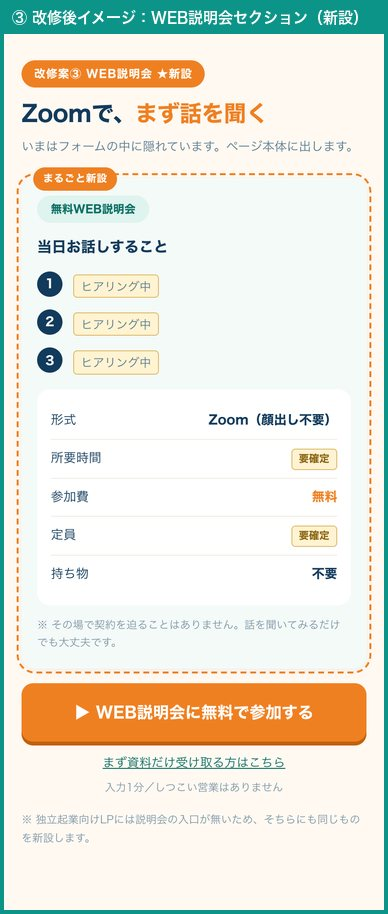
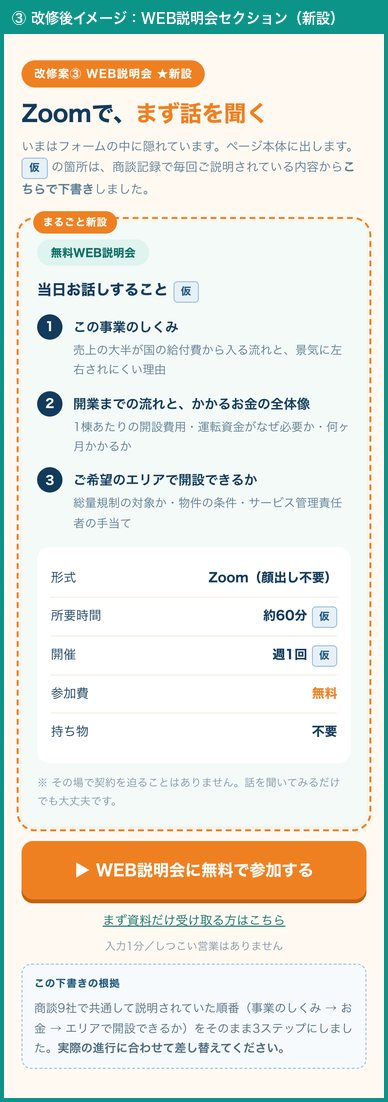
OWL: 確認待ち項目を仮で下書き（説明会3点・FAQ6問・シミュ項目）。数字のみ要確定で保留

Changed region(s): [[0.0, 0.0, 0.9897, 0.9803], [0.8351, 0.3676, 0.8969, 0.3982]]

diff --git a/owl/lp_kaishu_20260824/index.html b/owl/lp_kaishu_20260824/index.html
@@ -63,6 +63,7 @@ footer{margin-top:36px;padding-top:14px;border-top:1px solid var(--line);font-si
 .arrow{font-size:12px;font-weight:700;color:var(--orange);letter-spacing:.06em;margin:0 0 6px}
 .fix ul{margin:6px 0 0;padding-left:19px;font-size:13.2px}
 .fix li{margin:5px 0}
+.kari{display:inline-block;background:#E7F0F8;border:1px solid #9DBFDA;color:#20597F;font-size:11px;font-weight:700;padding:1px 7px;border-radius:4px;white-space:nowrap}
 .ph{background:#fff4d6;border:1px solid #e3c78a;color:#8a6412;font-size:11px;padding:1px 7px;border-radius:4px;font-weight:700;white-space:nowrap}
 .tag{display:inline-block;font-size:11px;font-weight:700;padding:2px 9px;border-radius:99px;margin-right:5px}
 .tag.new{background:#fdf1ea;color:#8a3410}
@@ -103,6 +104,16 @@ footer{margin-top:36px;padding-top:14px;border-top:1px solid var(--line);font-si
     <div class="tt">独立起業向けLPは、ボタンが一度も押されていません</div>
     <div class="td">8/23は2本合わせて43回ご覧いただきましたが、<b>お問い合わせボタンのタップは0回</b>。一方で0円プランLPは同じ日にフォーム送信まで進んでいます。<b>受け皿の差が出ています。</b></div>
   </div></div>
+</div>
+
+<div class="box" style="border-left:4px solid var(--teal)">
+<div class="h">この資料の2つの印について</div>
+<table>
+<tr><td style="width:64px"><span class="kari">仮</span></td>
+    <td><b>こちらで下書きしました。</b>商談記録で御社が実際にご説明されていた内容をもとにしています。<b>そのまま使えるものは使い、違うところだけ直してください。</b></td></tr>
+<tr><td><span class="ph">要確定</span></td>
+    <td><b>こちらでは書けない数字です。</b>実績や収益の表示は景品表示法に関わるため、<b>推測で埋めることはいたしません。</b>御社に確定していただいてから入れます。</td></tr>
+</table>
 </div>
 
 <!-- ===== 現状 ===== -->
@@ -194,7 +205,7 @@ footer{margin-top:36px;padding-top:14px;border-top:1px solid var(--line);font-si
   <ul>
     <li><b>各プランのカードを開けるようにします</b>（いまは押しても何も起きません）</li>
     <li>開くと出る中身は<b>事業ガイド vol.19 の数字</b>で書けます — 0円プラン（3棟12居室）年間売上予測 5,214万円／年間営業利益予測 989万円／<b>投資回収期間 1年〜1年半</b>／サポート費 月16.5万円（税込・2棟目以降 +5.5万円）</li>
-    <li>加えて<b>入居率別の収支</b>／<b>人件費と人員配置</b>／<b>1棟目と2棟目で利益がどう変わるか</b> <span class="ph">こちらは要ご確認</span></li>
+    <li>加えて<b>入居率別の収支</b>／<b>人件費と人員配置</b>／<b>1棟目と2棟目で利益がどう変わるか</b> — <b>項目立てと説明文は <span class="kari">仮</span> で下書き済み</b>、入る金額だけ <span class="ph">要確定</span> です</li>
     <li>満室前提の数字だけを見せない形にします（後の不信を防ぐため）</li>
   </ul>
   <div class="note">一番押されているのが「人気プラン 12〜14居室 約1,200万円」です。<b>ここが最も知りたがられている</b>と読めます。商談で「2年ぐらいで回収できると安心できる」とおっしゃった方がいました。<b>回収期間はガイドに1年〜1年半と明記されているので、LPに出せます。</b></div>
@@ -226,7 +237,8 @@ footer{margin-top:36px;padding-top:14px;border-top:1px solid var(--line);font-si
     <div class="ar">→</div>
     <div class="p af"><div class="t">改修後</div>ページ本体に独立したセクションを新設<br><br><b>当日お話しすること3点</b>／形式（Zoom・顔出し不要）／所要時間／無料／定員／持ち物不要／「その場で契約を迫ることはありません」の一文</div>
   </div>
-  <div class="note">独立起業向けLPには説明会の入口自体がないため、そちらにも新設します。<b>当日お話しする内容を教えていただけますと、そのまま反映いたします。</b></div>
+  <div class="note">独立起業向けLPには説明会の入口自体がないため、そちらにも新設します。<br>
+<b>「当日お話しすること」3点は <span class="kari">仮</span> で下書きしました</b>（商談9社で共通して説明されていた順番 = 事業のしくみ → お金 → エリアで開設できるか）。所要時間・開催頻度も仮置きです。<b>実際の進行に合わせて差し替えてください。</b></div>
 </div>
 <div class="fix">
   <div class="ttl">④ 画像に焼き込まれた文字を、そのまま読める文字にする</div>
@@ -249,7 +261,10 @@ footer{margin-top:36px;padding-top:14px;border-top:1px solid var(--line);font-si
     <figure><img src="img/dokuritsu_5.jpg" alt="現状"><figcaption>いまの画面</figcaption></figure>
     <figure><img src="img/a5.jpg" alt="改修後イメージ"><figcaption>こう変えます（イメージ）</figcaption></figure>
   </div>
-  <div class="note">数少ない接触の3分の1がご質問欄です。<b>「まだ疑問が残っている」サイン</b>と見ています。<br>追加する9問は<b>商談記録で実際に聞かれていたもの</b>から選びました。商談で毎回説明されていることをLPに先に出しておけば、<b>商談の時間を前向きな話に使えます。</b>回答内容は御社にご確認のうえ記載します。</div>
+  <div class="note">数少ない接触の3分の1がご質問欄です。<b>「まだ疑問が残っている」サイン</b>と見ています。<br>
+追加する9問は<b>商談記録で実際に聞かれていたもの</b>から選び、<b>回答も6問ぶん <span class="kari">仮</span> で下書きしました</b>（商談での御社のご説明をそのまま文章にしています）。<br>
+金額が絡む3問（総量規制の調べ方・融資・撤退費用）だけは、こちらで書かずに空けてあります。<br>
+商談で毎回ご説明されていることをLPに先に出しておけば、<b>商談の時間を前向きな話に使えます。</b></div>
 </div>
 
 <!-- ===== 確認事項 ===== -->
@@ -258,15 +273,16 @@ footer{margin-top:36px;padding-top:14px;border-top:1px solid var(--line);font-si
 <div class="box">
 <table>
 <tr><th>ご確認したいこと</th><th>現状</th></tr>
-<tr><td><b>WEB説明会で当日お話しする内容</b>・所要時間・定員・開催頻度</td><td>ヒアリング中</td></tr>
+<tr><td><b>WEB説明会の当日の内容</b>・所要時間・開催頻度</td><td><span class="kari">仮</span> で下書き済み。<b>これで合っているかだけご確認ください</b></td></tr>
 <tr><td><b>自己資金の目安</b>（LPに載せる数字を1つに）</td><td>0円プランLP「約230〜560万円」／独立起業向けLP「300万円以上」／<b>事業ガイド「600〜800万円」</b>の3つ</td></tr>
 <tr><td><b>未経験の比率</b></td><td>LP上部のバッジは「95%」、同じ独立起業向けLPの下部は「85%」、FAQは「約6割」と3つ。<b>事業ガイドには記載が見当たりません</b></td></tr>
 <tr><td><b>開設実績の件数</b></td><td>「400件」「180社」「4社」の3種類。<b>独立起業向けLPでは、上部のバッジが「400件」・下部のセクションが「180社」と同じページ内で異なります</b></td></tr>
 <tr><td>給付費が売上に占める割合</td><td>0円プランLPは「9割」、独立起業向けLPは「85%」、事業ガイドは「大半」と表現が分かれています</td></tr>
 <tr><td>収益の見せ方を<b>棟数</b>に揃えるか</td><td>商談とガイドは棟数、LPは居室数</td></tr>
-<tr><td>FAQ9問の回答内容</td><td>質問は商談記録から抽出済み。回答は要ご確認</td></tr>
+<tr><td>FAQ9問の回答内容</td><td>質問は商談記録から抽出済み。<b>6問は <span class="kari">仮</span> で回答も下書き済み</b>／残り3問（総量規制の調べ方・融資・撤退費用）は空欄</td></tr>
+<tr><td>入居率別の収支・人件費・1〜3棟目の月次利益</td><td>項目立ては <span class="kari">仮</span> で用意済み。<b>入る金額のみ <span class="ph">要確定</span></b></td></tr>
 </table>
-<div class="note" style="margin-top:12px"><b>解決したもの：</b>初期費用の内訳は、事業ガイド vol.19 に「1棟あたり約230万円（物件取得費85万／内装工事35万／消防設備60万／一般備品45万／事務機器5万）」の記載があったため、そのまま使えます。</div>
+<div class="note" style="margin-top:12px"><b>ご確認を待たずに進めたもの：</b>上の <span class="kari">仮</span> は、商談記録をもとにこちらで下書きしました。ゼロから考えていただく必要はありません。<br><br><b>解決したもの：</b>初期費用の内訳は、事業ガイド vol.19 に「1棟あたり約230万円（物件取得費85万／内装工事35万／消防設備60万／一般備品45万／事務機器5万）」の記載があったため、そのまま使えます。</div>
 <div class="note">実績や収益の表示は景品表示法に関わります。<b>こちらの推測で数字を埋めることはいたしません。</b>決まるまでは現在の表記のままにします。</div>
 </div>
 
